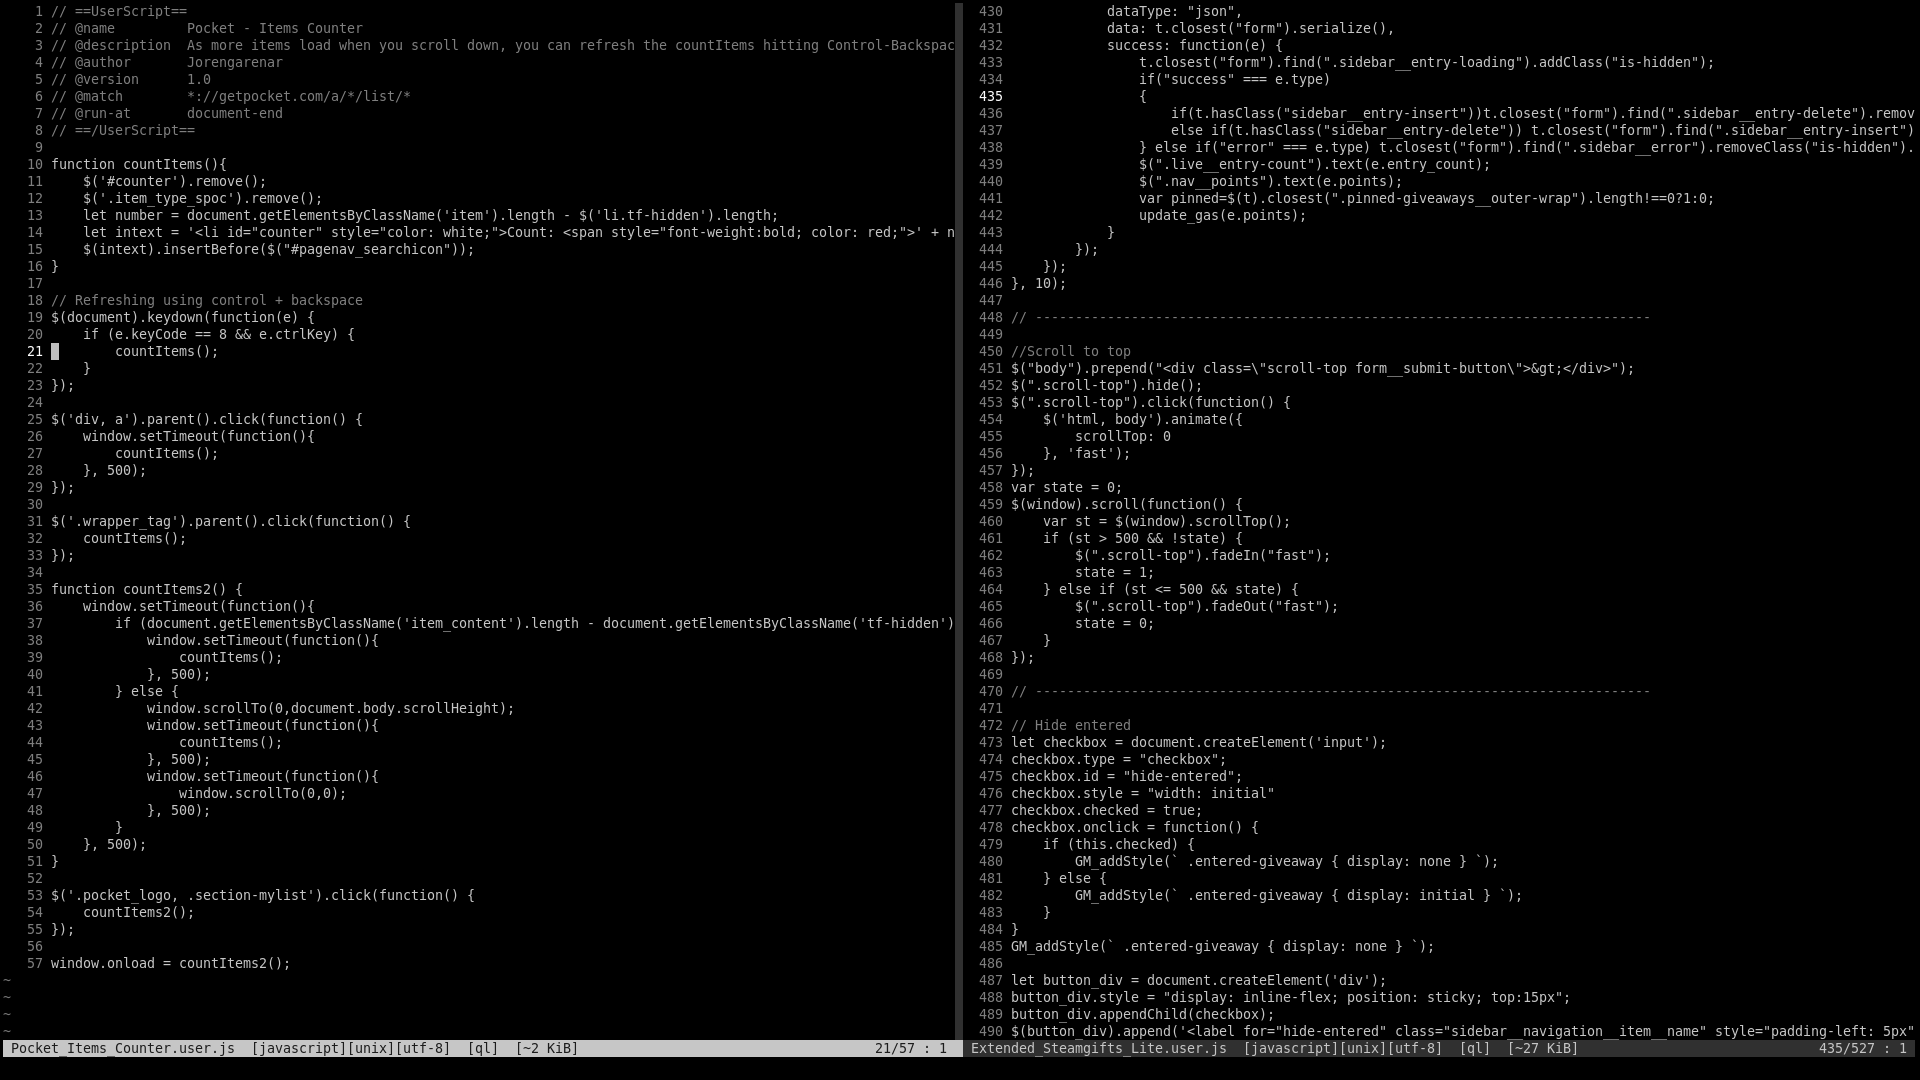
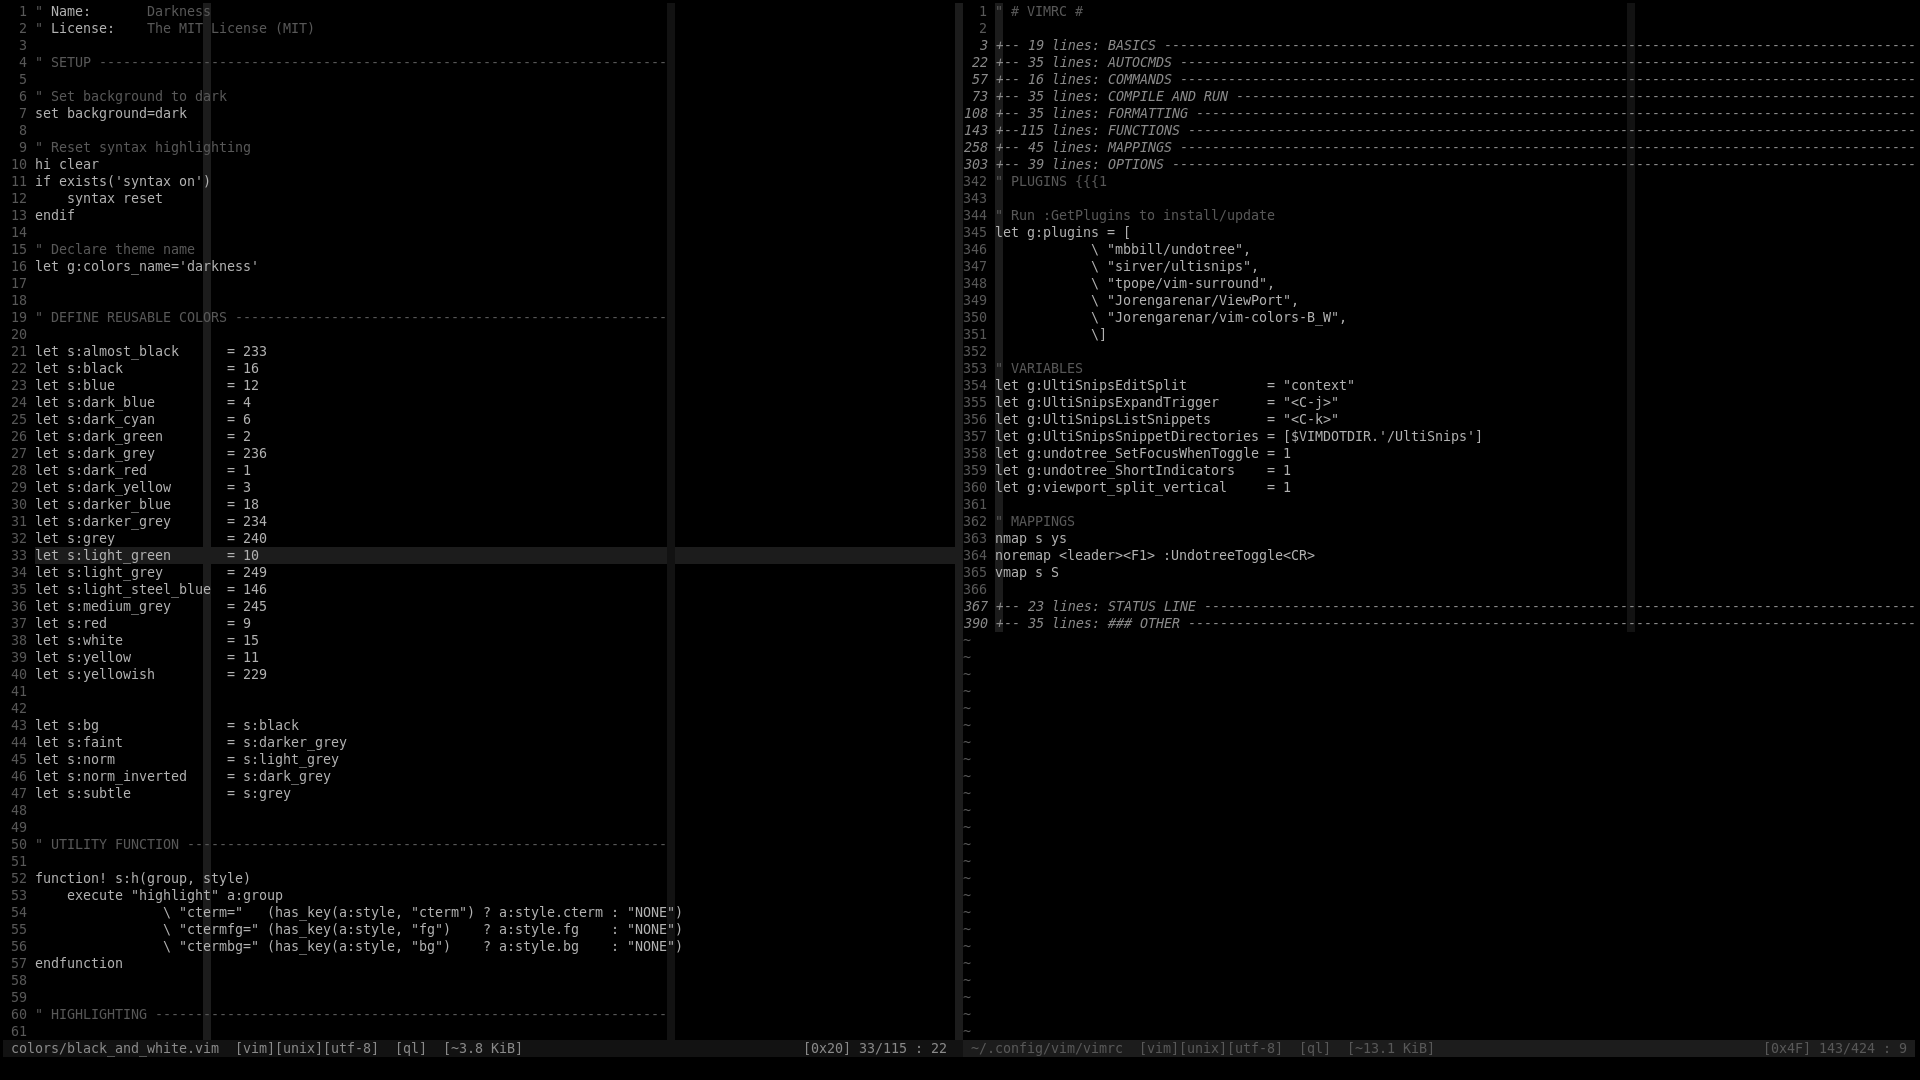
Renamed to Darkness

diff --git a/README.md b/README.md
@@ -1,4 +1,4 @@
-# Black&White Vim Colorscheme
+# Darkness: Vim Colorscheme
 
 Simple dark Vim colorscheme focused on black and white with occasional color accents when needed.
 
@@ -16,7 +16,7 @@ You can also use plugin manager of your choice.
 Just like any other color scheme:
 
 ```vim
-colorscheme black_and_white
+colorscheme darkness
 ```
 
 ---
